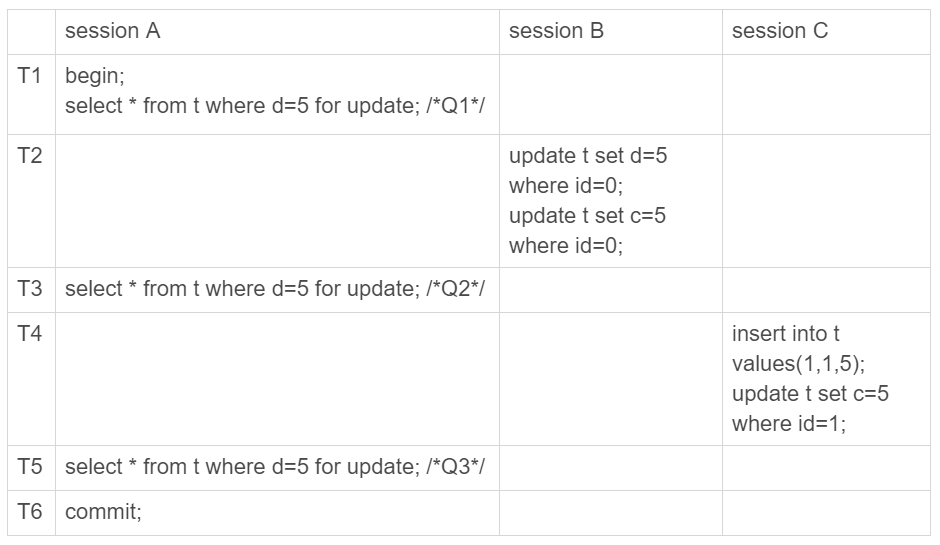
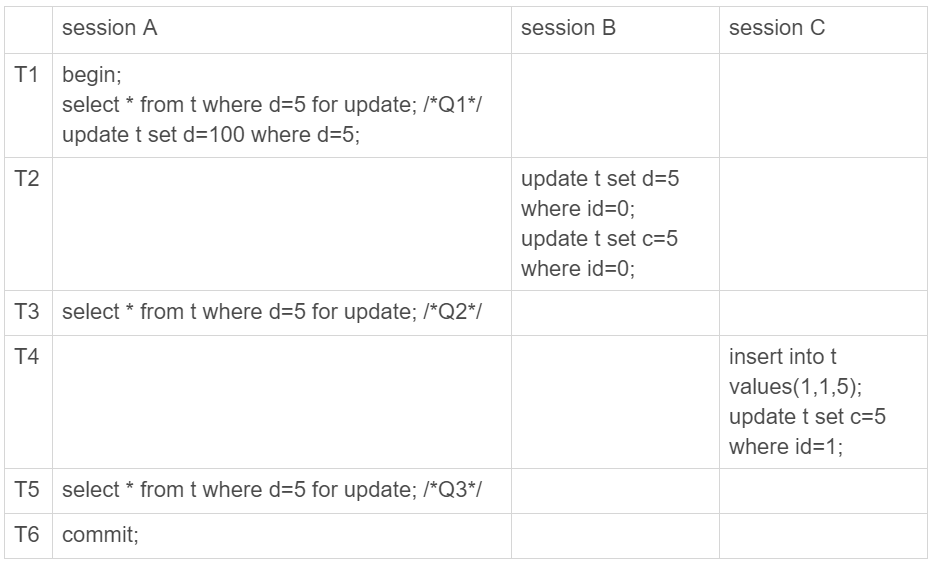
幻读补充

diff --git a/MySQL/幻读.md b/MySQL/幻读.md
@@ -12,13 +12,37 @@ Session A在T1时刻就声明了，“我要把所有d=5的行锁住，不准别
 
 ####  数据一致性上
 
+根据图示的执行步骤，T1时刻将（5,5,5）改成了（5,5,100），T2时刻将这条记录变成（0,5,5），T4时刻表里多了一条记录（1,5,5）。
 
+再看binlog的内容，由于事务提交时binlog才会写入，所以最终binlog中的语句序列如下
 
-count()是一个聚合函数，对于返回的结果集，一行行判断，如果count函数的参数不是NULL，累计值就加1，否则不加，最后返回累计值。
+```mysql
+update t set d=5 where id=0; /*(0,0,5)*/
+update t set c=5 where id=0; /*(0,5,5)*/
 
-- **count(主键id)**：遍历整张表，每行的id都取出来，返回给server层，server层判断字段不可空，按行累加；
-- **count(1)**：遍历整张表，但是不取值，server层收到的所有行都是1，server层判断字段不为空，按行累加。之所以比count(主键)快，因为从引擎返回id会涉及到解析数据行，以及拷贝字段值的操作；
-- **count(字段)**：如果字段定义为not null，逐行从记录里读出这个字段，server层判断字段不为空，按行累加；如果是允许为null的情况下，server层判断字段可为null，字段取出还需判断是否为null，再进行累加；
-- **count(*)**：专门做了优化，不取值，按行累加。
+insert into t values(1,1,5); /*(1,1,5)*/
+update t set c=5 where id=1; /*(1,5,5)*/
 
-**效率：count(字段) < count(主键 id) < count(1) ≈ count(*)**
+update t set d=100 where d=5;/*所有d=5的行，d改成100*/
+```
+
+显而易见，如果拿这个语句序列去备库执行，或者恢复数据，都会导致数据不一致，这个问题就相当严重。
+
+### 如何解决？
+
+在一行行扫描过程中，不仅给行加上了行锁，还给行两边的空隙，也加上了间隙锁。
+
+间隙锁和行锁有不一样的地方，行锁之间是存在冲突关系的，例如读锁和写锁之间，写锁和写锁之间会存在冲突关系，从而引发阻塞。但是**间隙锁之间是不存在冲突关系的，跟间隙锁存在冲突关系的，是”向这个间隙中插入一个记录“这个操作**。
+
+间隙锁和行锁合称next-key lock，每个next-key lock是前开后闭区间，间隙锁的引入解决了幻读的问题。
+
+[^拓展]: 因为是前开后闭区间，所以当涉及到+∞时，InnoDB给每个索引加了一个不存在的最大值supremum，这样+∞也可以做闭区间处理了
+
+### 间隙锁的死锁问题
+
+![next-key lock](D:\Users\zhou_yao\workspace\just-for-review-and-zhuangB\MySQL\next-key lock.png)
+
+1. session A 执行 select … for update 语句，由于 id=9 这一行并不存在，因此会加上间隙锁 (5,10);
+2. session B 执行 select … for update 语句，同样会加上间隙锁 (5,10)，间隙锁之间不会冲突，因此这个语句可以执行成功；
+3. session B 试图插入一行 (9,9,9)，被 session A 的间隙锁挡住了，只好进入等待；
+4. session A 试图插入一行 (9,9,9)，被 session B 的间隙锁挡住了。
